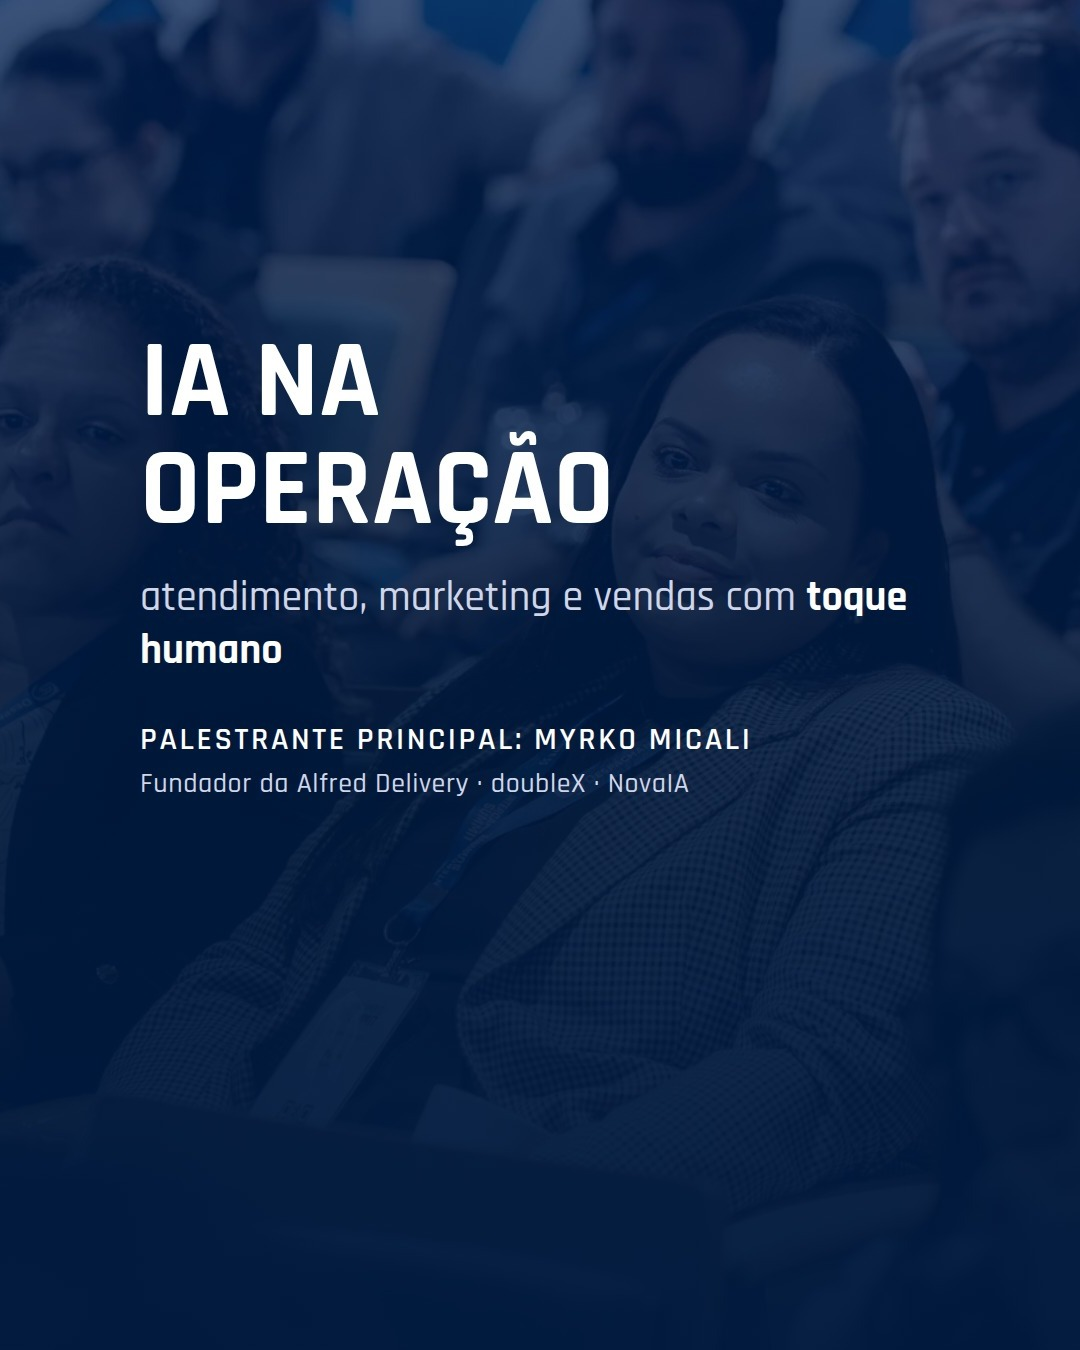
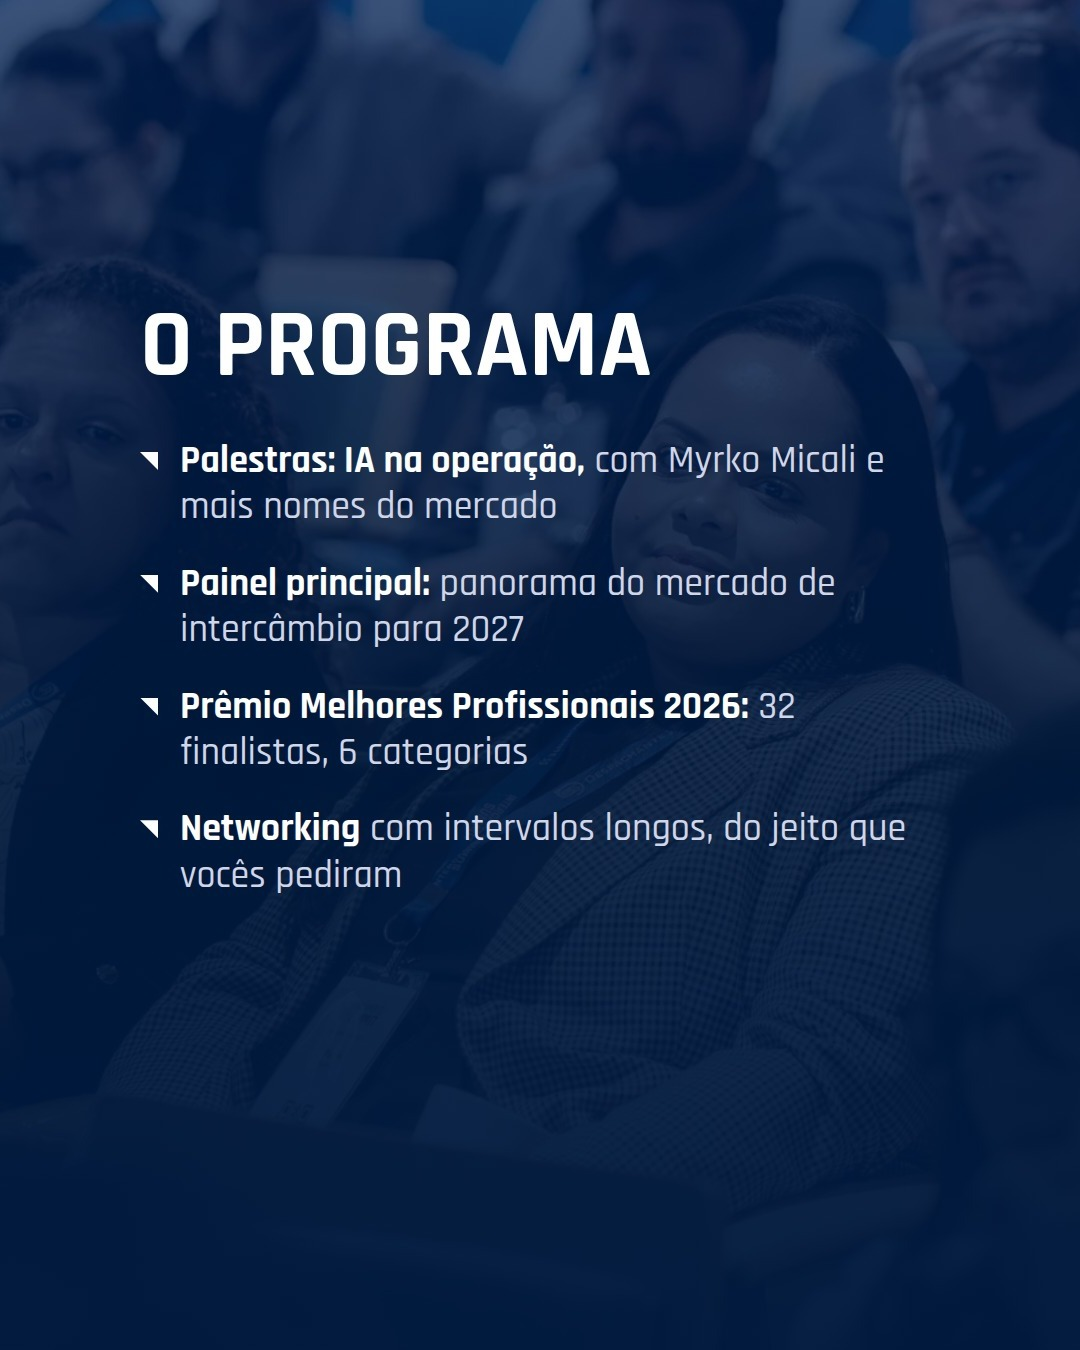
Fatia central do panorama destaca o programa do dia
Palestras (IA na operação, Myrko), painel principal (panorama 2027),
Prêmio Melhores Profissionais e networking; legenda 2 alinhada.

Claude-Session: https://claude.ai/code/session_01K1jUSLEfcAN8o76QZJPw2m

Changed region(s): [[0.1222, 0.2178, 0.8556, 0.6533]]

diff --git a/criativos/templates/pinado-panorama.html b/criativos/templates/pinado-panorama.html
@@ -35,17 +35,18 @@
   .faixa-apoio img.allyhub { height: 30px; }
   .faixa-apoio img.edvisor { height: 37px; }
 
-  /* ---- fatia central: o tema ---- */
-  .f2 { position: absolute; left: 1220px; width: 800px; top: 330px; }
-  .f2 .titulo { font-weight: 700; font-size: 110px; line-height: .98;
+  /* ---- fatia central: o programa do dia ---- */
+  .f2 { position: absolute; left: 1220px; width: 800px; top: 300px; }
+  .f2 .titulo { font-weight: 700; font-size: 96px; line-height: .98;
     text-transform: uppercase; color: var(--white); }
-  .f2 .sub { margin-top: 26px; font-weight: 500; font-size: 42px; line-height: 1.28;
+  .f2 .programa { margin-top: 44px; }
+  .f2 .item { display: flex; align-items: flex-start; gap: 22px; margin-bottom: 30px; }
+  .f2 .item .tick { flex: none; width: 18px; height: 18px; margin-top: 14px;
+    background: var(--white);
+    clip-path: polygon(0 0, 100% 0, 100% 100%); }
+  .f2 .item .txt { font-weight: 500; font-size: 38px; line-height: 1.22;
     color: var(--mid-grey); }
-  .f2 .sub strong { color: var(--white); font-weight: 700; }
-  .f2 .palestrante { margin-top: 40px; font-weight: 600; font-size: 32px;
-    letter-spacing: .08em; text-transform: uppercase; color: var(--white); }
-  .f2 .palestrante span { display: block; font-weight: 500; font-size: 28px;
-    letter-spacing: .02em; text-transform: none; color: var(--mid-grey); margin-top: 6px; }
+  .f2 .item .txt strong { color: var(--white); font-weight: 700; }
 
   /* ---- fatia direita: ingressos ---- */
   .f3 { position: absolute; left: 2300px; width: 800px; top: 330px; }
@@ -91,10 +92,17 @@
     </div>
 
     <div class="f2">
-      <div class="titulo">IA NA<br>OPERAÇÃO</div>
-      <div class="sub">atendimento, marketing e vendas com <strong>toque humano</strong></div>
-      <div class="palestrante">Palestrante principal: Myrko Micali
-        <span>Fundador da Alfred Delivery · doubleX · NovaIA</span></div>
+      <div class="titulo">O PROGRAMA</div>
+      <div class="programa">
+        <div class="item"><span class="tick"></span>
+          <span class="txt"><strong>Palestras: IA na operação,</strong> com Myrko Micali e mais nomes do mercado</span></div>
+        <div class="item"><span class="tick"></span>
+          <span class="txt"><strong>Painel principal:</strong> panorama do mercado de intercâmbio para 2027</span></div>
+        <div class="item"><span class="tick"></span>
+          <span class="txt"><strong>Prêmio Melhores Profissionais 2026:</strong> 32 finalistas, 6 categorias</span></div>
+        <div class="item"><span class="tick"></span>
+          <span class="txt"><strong>Networking</strong> com intervalos longos, do jeito que vocês pediram</span></div>
+      </div>
     </div>
 
     <div class="f3">
